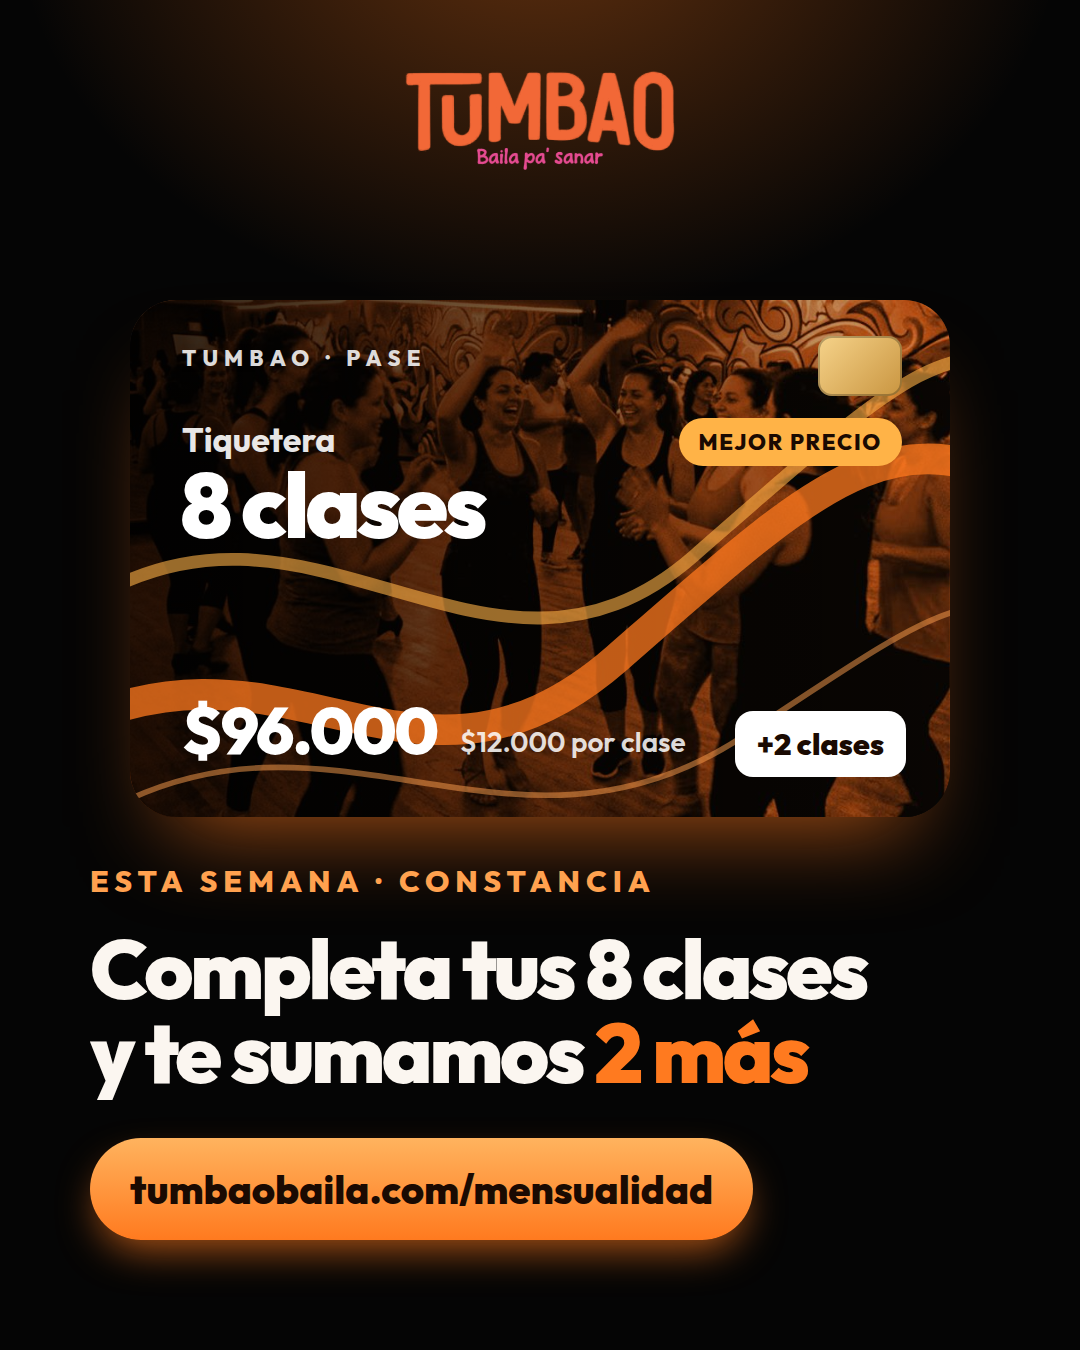
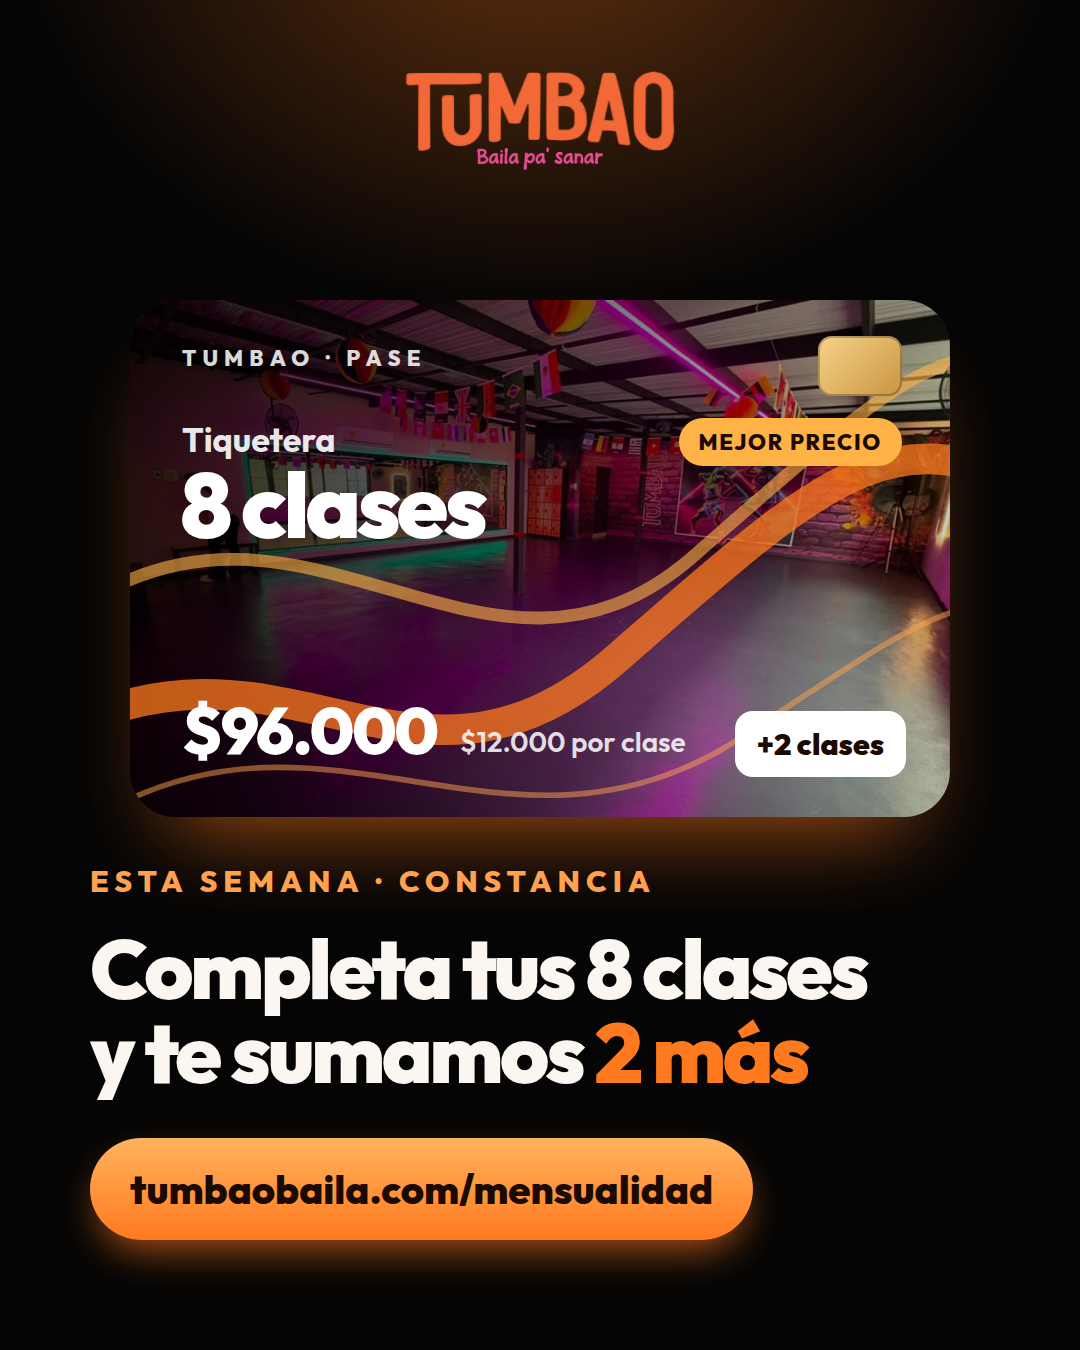
Pases y piezas con fotos reales del salón
Claude-Session: https://claude.ai/code/session_01JQN6ntVPwjZYkhXRevHomj

Changed region(s): [[0.1222, 0.2178, 0.8861, 0.6222]]

diff --git a/campana/constancia/piezas.html b/campana/constancia/piezas.html
@@ -4,7 +4,7 @@
 <meta charset="utf-8">
 <title>Piezas · Tu constancia suma</title>
 <!--
-  Piezas para redes de la campaña de constancia (25 oct 2026). Se DIBUJAN aquí (el texto lo escribe el navegador, sale
+  Piezas para redes de la campaña de constancia (25 oct 2026). Fondos: fotos REALES del salón (campana/salon). Se DIBUJAN aquí (el texto lo escribe el navegador, sale
   exacto con tildes) y `sacar.mjs` las exporta a PNG en salida/. Una pieza por URL: piezas.html?p=c1 … ?p=h3.
   Regla de la campaña: tiquetera de 4 clases → 1 clase adicional al completarla; de 8 → 2. Aplica a todas las tiqueteras.
   Se dice «clase adicional», nunca premio, regalo ni gratis.
@@ -122,7 +122,7 @@ const PIEZAS = {
         <img class="logo" src="logo-tumbao.png" alt="" style="top:120px">
         <div class="pases chico" style="top:420px">${pase({ ...P8, mas: '+2 clases' })}${pase({ ...P4, mas: '+1 clase' })}</div>
         <div class="cont" style="bottom:220px"><span class="ceja">Tu constancia suma</span><h2>Completa tu tiquetera y recibe clases adicionales</h2>${WEB}</div></div>`,
-  h2: `<div class="pieza historia"><div class="fondo" style="background-image:url(../puerta.jpg)"></div><div class="velo"></div>
+  h2: `<div class="pieza historia"><div class="fondo" style="background-image:url(salon-halloween.jpg)"></div><div class="velo"></div>
         <img class="logo" src="logo-tumbao.png" alt="" style="top:120px">
         <div class="cont" style="bottom:260px"><span class="ceja">🎃 Jueves 29 de octubre</span><h1>Clases de<br><em>Halloween</em></h1>
         <p class="sub">Una clase para soltarse, reír y bailar en Tumbao. Aparta tu cupo desde hoy: los cupos se llenan.</p>

diff --git a/docs/mensualidad.html b/docs/mensualidad.html
@@ -733,7 +733,7 @@ const CONFIG = {
   .pase .foto::after{content:"";position:absolute;inset:0;background:linear-gradient(90deg,rgba(0,0,0,.82) 0%,rgba(0,0,0,.45) 60%,rgba(0,0,0,.15) 100%)}
   .pase.con-foto{color:#fff}
   .pase.con-foto .cinta{opacity:.45}
-  .pase.con-foto .num{color:rgba(255,255,255,.1)}
+  .pase.con-foto .num{color:rgba(255,255,255,.06)}
   /* arte: cintas */
   .pase .arte{position:absolute;inset:0;width:100%;height:100%;z-index:-1;pointer-events:none}
   .pase .cinta{fill:none;stroke-linecap:round;stroke-dasharray:420 900;stroke-dashoffset:0}
